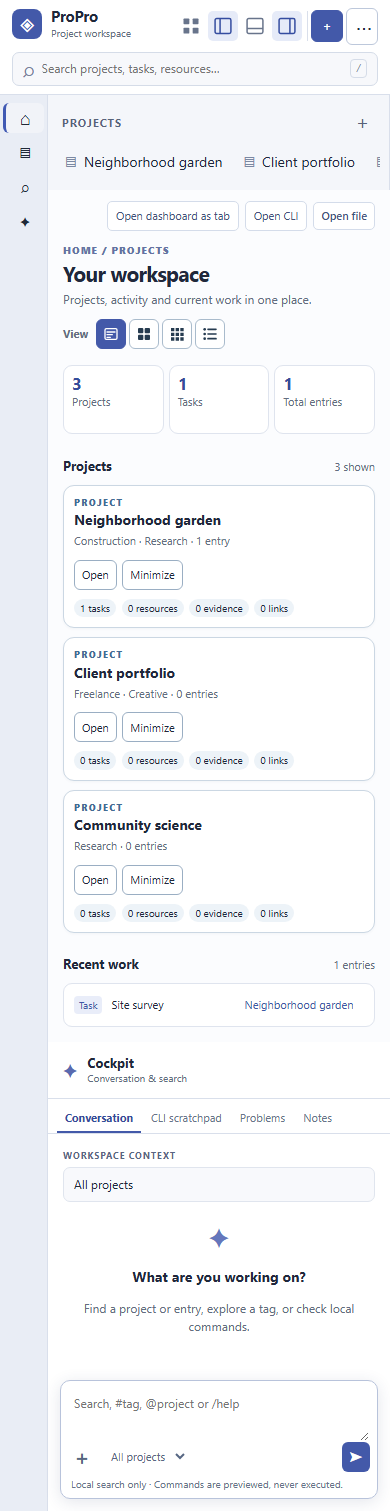
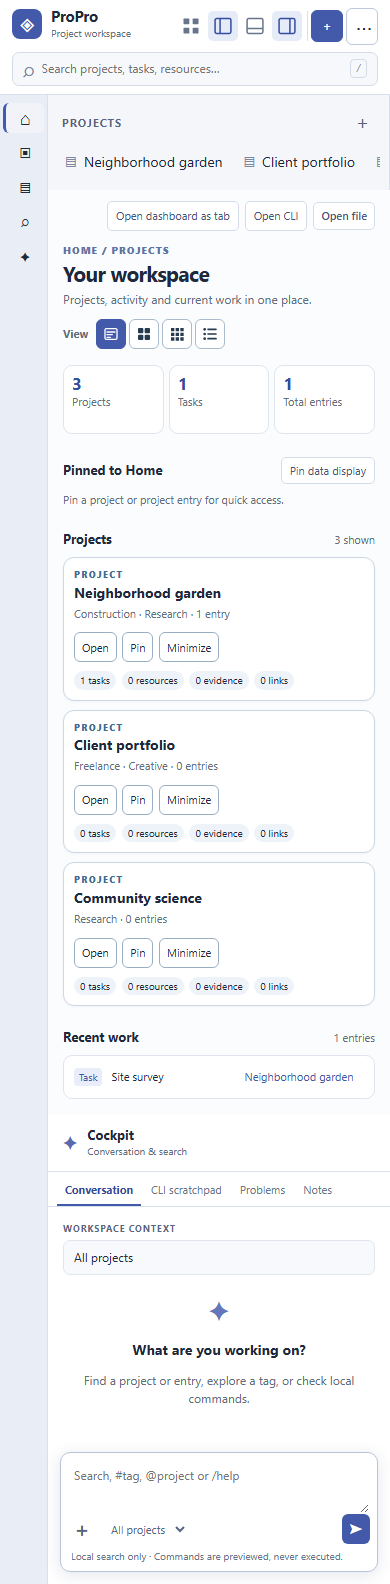
feat: pin local work and data to Home
Change-Level: DRIVE
Dev-Docs: updated
Validation: 10 browser and 2 model PASS; pinned 390px axe PASS; valid import PASS; planning validation PASS

diff --git a/styles.css b/styles.css
@@ -94,6 +94,22 @@ body { background:#f5f6fa; }
 .overview-stats div { display:flex; flex-direction:column; gap:1px; min-height:69px; padding:9px 12px; background:#fff; border:1px solid #dfe4ee; border-radius:9px; }
 .overview-stats strong { font-size:20px; line-height:1.1; font-weight:650; color:#354c9a; }
 .overview-stats span { color:var(--muted); font-size:11px; }
+#home-pins { margin:0 0 22px; }
+#home-pins > .section-head { margin-bottom:8px; }
+#home-pins > .section-head button { min-height:27px; padding:4px 8px; border:1px solid #d4dcea; border-radius:5px; background:#fff; color:#43527a; font-size:11px; }
+#home-pins > .muted { margin:0; font-size:11px; }
+.home-pin-grid { display:grid; grid-template-columns:repeat(auto-fit,minmax(min(100%,220px),1fr)); gap:8px; }
+.home-pin { min-width:0; padding:10px; border:1px solid #dfe4ee; border-radius:9px; background:#fff; }
+.home-pin-head { display:flex; justify-content:space-between; align-items:start; gap:6px; }
+.home-pin h4 { margin:3px 0 0; font-size:13px; overflow-wrap:anywhere; }
+.home-pin-head > button { min-width:24px; min-height:24px; padding:0; border:0; border-radius:4px; background:transparent; color:#68748a; font-size:17px; }
+.home-pin p { margin:6px 0 10px; color:var(--muted); font-size:11px; overflow-wrap:anywhere; }
+.home-pin > button { min-height:27px; padding:4px 8px; border:1px solid #d4dcea; border-radius:5px; background:#f8f9fc; color:#4058a6; font-size:11px; }
+.pin-chart { display:grid; gap:5px; margin-top:9px; }
+.pin-chart > div { display:grid; grid-template-columns:65px minmax(0,1fr) 20px; align-items:center; gap:6px; font-size:10px; }
+.pin-chart-track { height:7px; border-radius:5px; background:#edf0f7; overflow:hidden; }
+.pin-chart-track span { display:block; height:100%; border-radius:5px; background:#6c7cc0; }
+.pin-chart strong { text-align:right; font-size:10px; }
 .section-head { display:flex; align-items:baseline; justify-content:space-between; margin-bottom:9px; }
 .section-head h3 { margin:0; font-size:13px; }
 .section-head span { color:var(--muted); font-size:11px; }

diff --git a/docs/PROP-CKP-001B-IMPLEMENTATION.md b/docs/PROP-CKP-001B-IMPLEMENTATION.md
@@ -84,3 +84,11 @@ The left activity rail, expandable Explorer, bottom utility panel and right conv
 ### Home returns to the dashboard view — 2026-11-05
 
 The owner clarified that Home is the center dashboard destination, not a permanent editor tab. The default dashboard and Home activity now hide the center tab strip. Open project, CLI and local-file tabs stay in memory and a Resume work action restores the most recent work tab. Open dashboard as tab is an explicit option; using Home afterward returns to the untabbed dashboard. Current dashboard customization includes card view choices and per-card minimization; arbitrary home widgets and saved dashboard arrangements remain future work. A 390px browser check found and fixed a host responsive layout defect when Explorer was hidden: center content and the conversation pane now stack without overlapping the activity rail. The running `propro-home-no-explorer-390.png` capture records that state.
+
+### Workspace rail and Home pins — 2026-11-05
+
+The activity rail now distinguishes Home from Workspace. Home shows the dashboard view without the editor strip; Workspace resumes the last open work tab, or shows an empty work view when none exists. This keeps project/CLI/file tabs separate from the surrounding panes. The optional dashboard-as-tab control remains. A later preference may choose a startup destination, but no extra global mode switch is needed for this slice.
+
+Home pins are browser-local preferences in `propro-home-pins-v1`, separate from version 1 project records and the view/layout preferences. A project card or project entry can be pinned; the dashboard renders up to 30 pinned items and each project/entry opens a center tab. Resources, Evidence and Links are title-based project entries here, not uploaded binary assets or external integrations. The optional Workspace activity chart is calculated from locally saved task/resource/evidence/link counts and updates when records change. It is labeled as local data and is not a live feed. Invalid targets disappear from the rendered pins; removed entries and replaced projects are pruned from saved pins. Running captures at `docs/screenshots/propro-pinned-home-1280.png` and `docs/screenshots/propro-pinned-home-390.png` verify the populated dashboard. Browser checks cover pin persistence, entry-tab opening, Workspace navigation, project-data isolation, count accuracy, narrow reflow and automated accessibility rules.
+
+Future widget and live-data adapters need an explicit source identity, freshness/refresh state, permissions, loading/error/stale states, and a safe action contract. Pinning a feature or tool must not trigger execution. Current pinned entry tabs expose the local record and a project link; they are not document or asset viewers.
